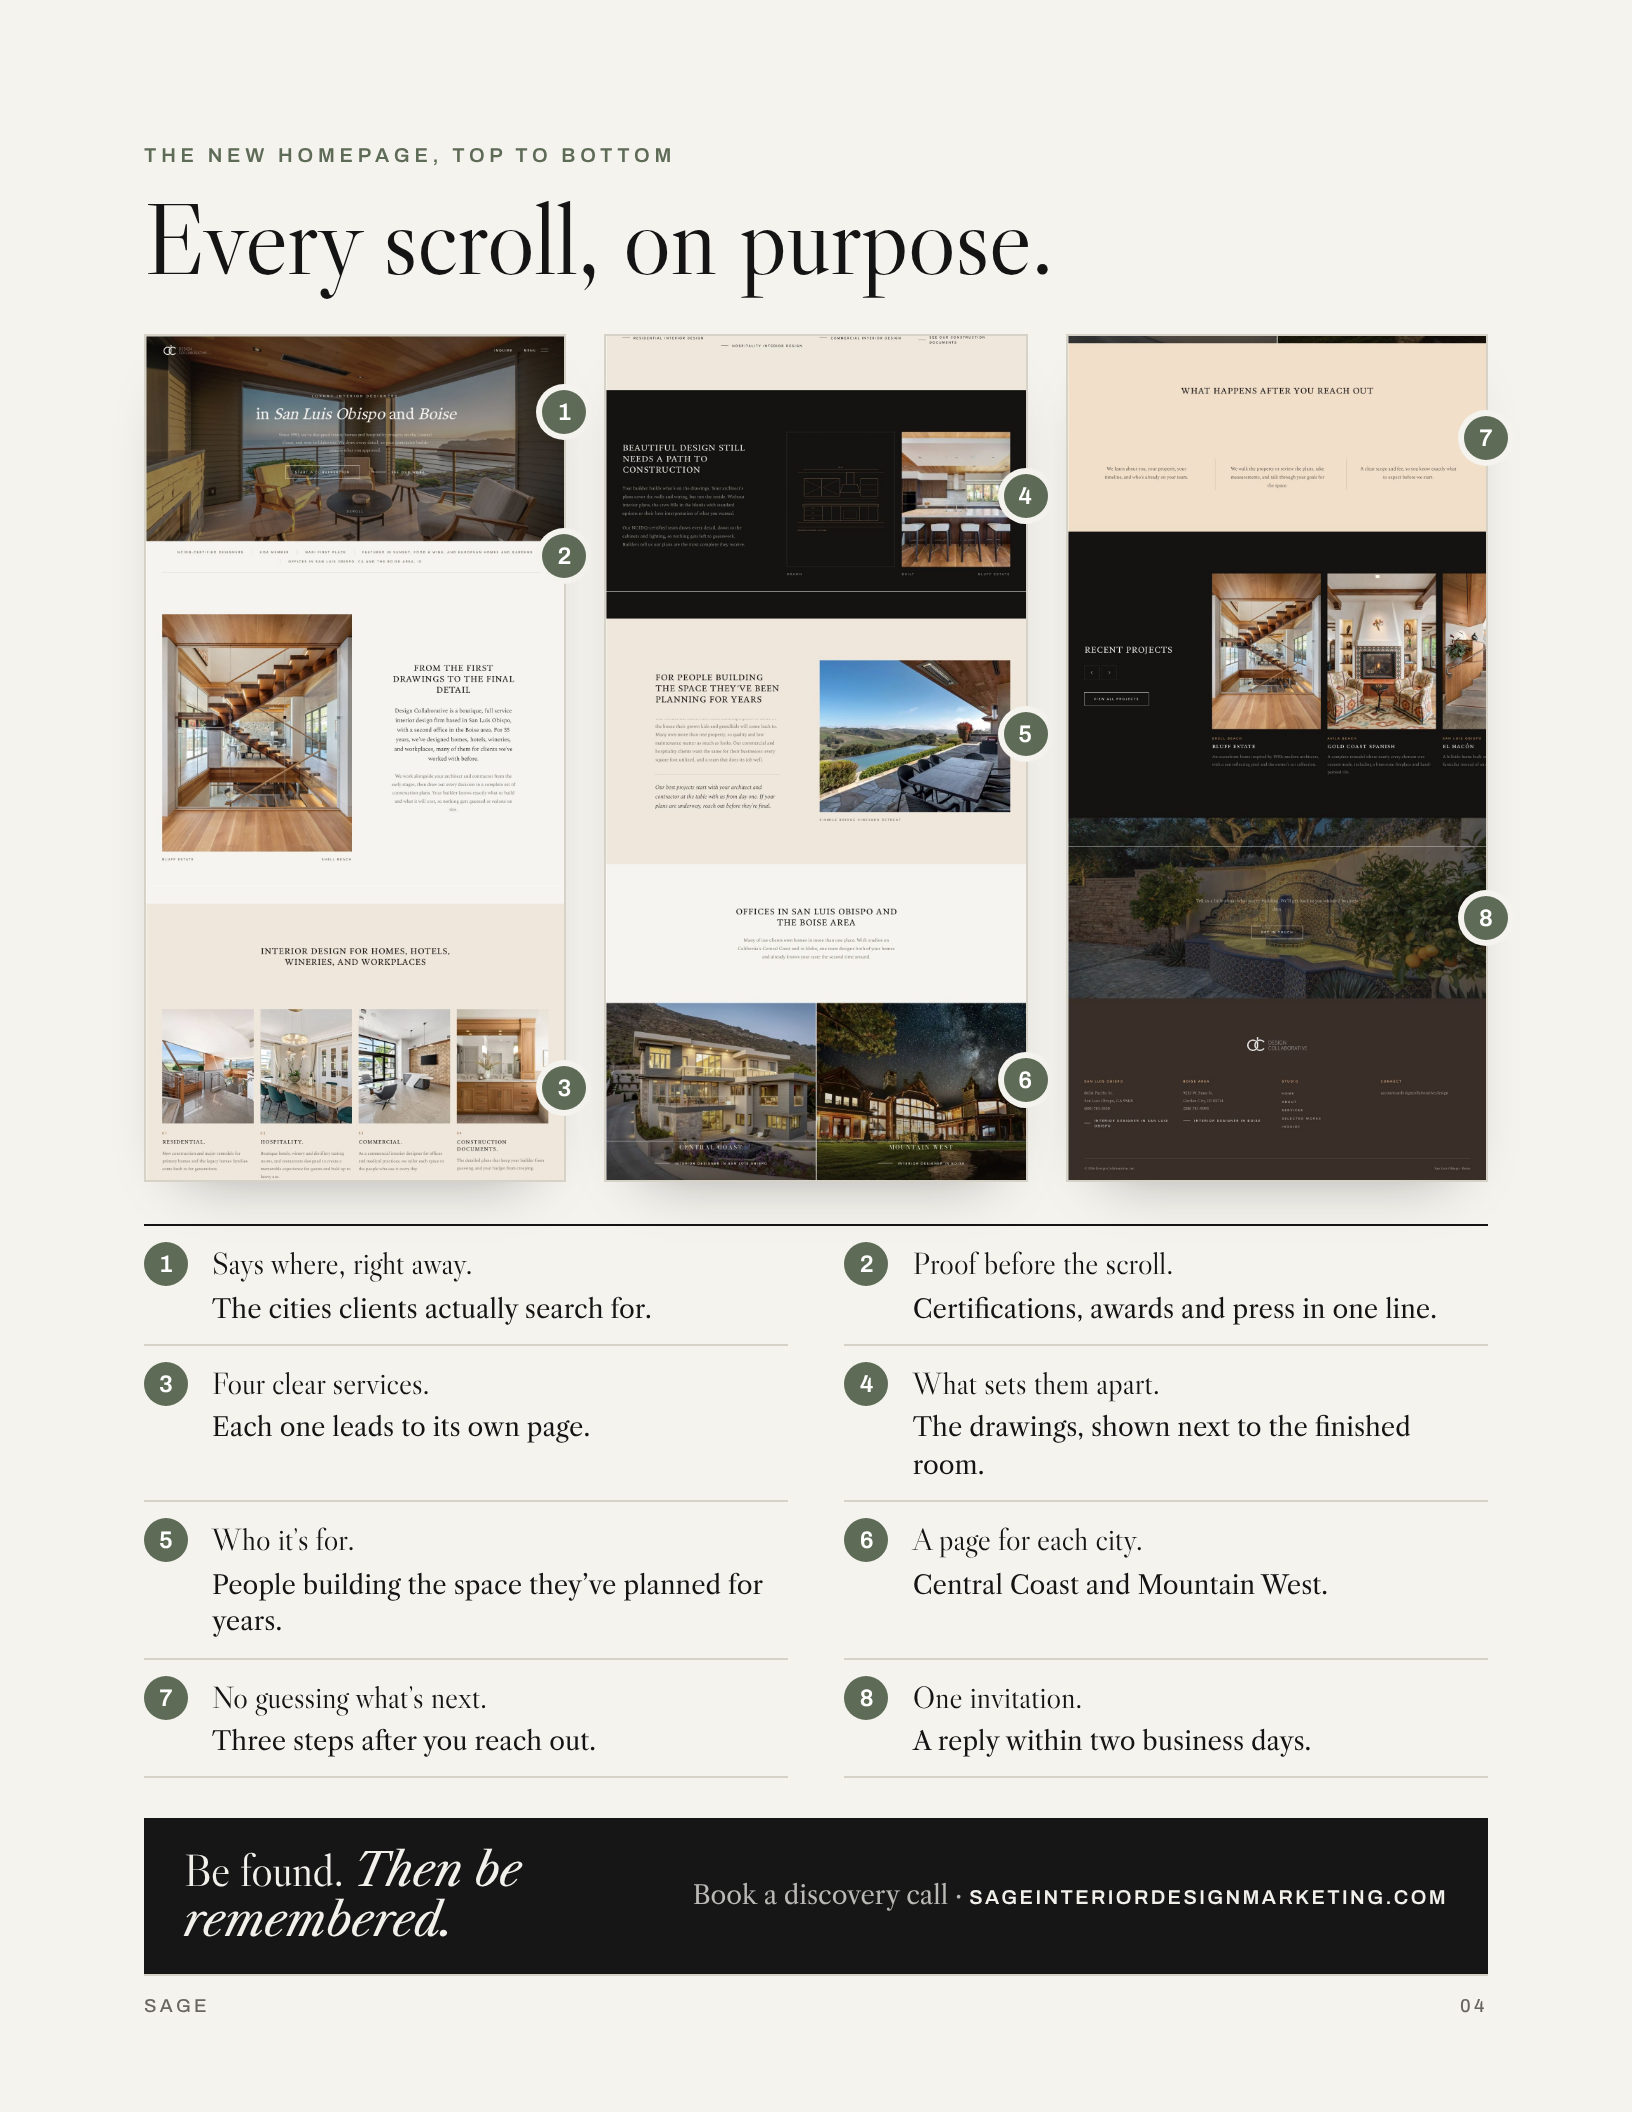
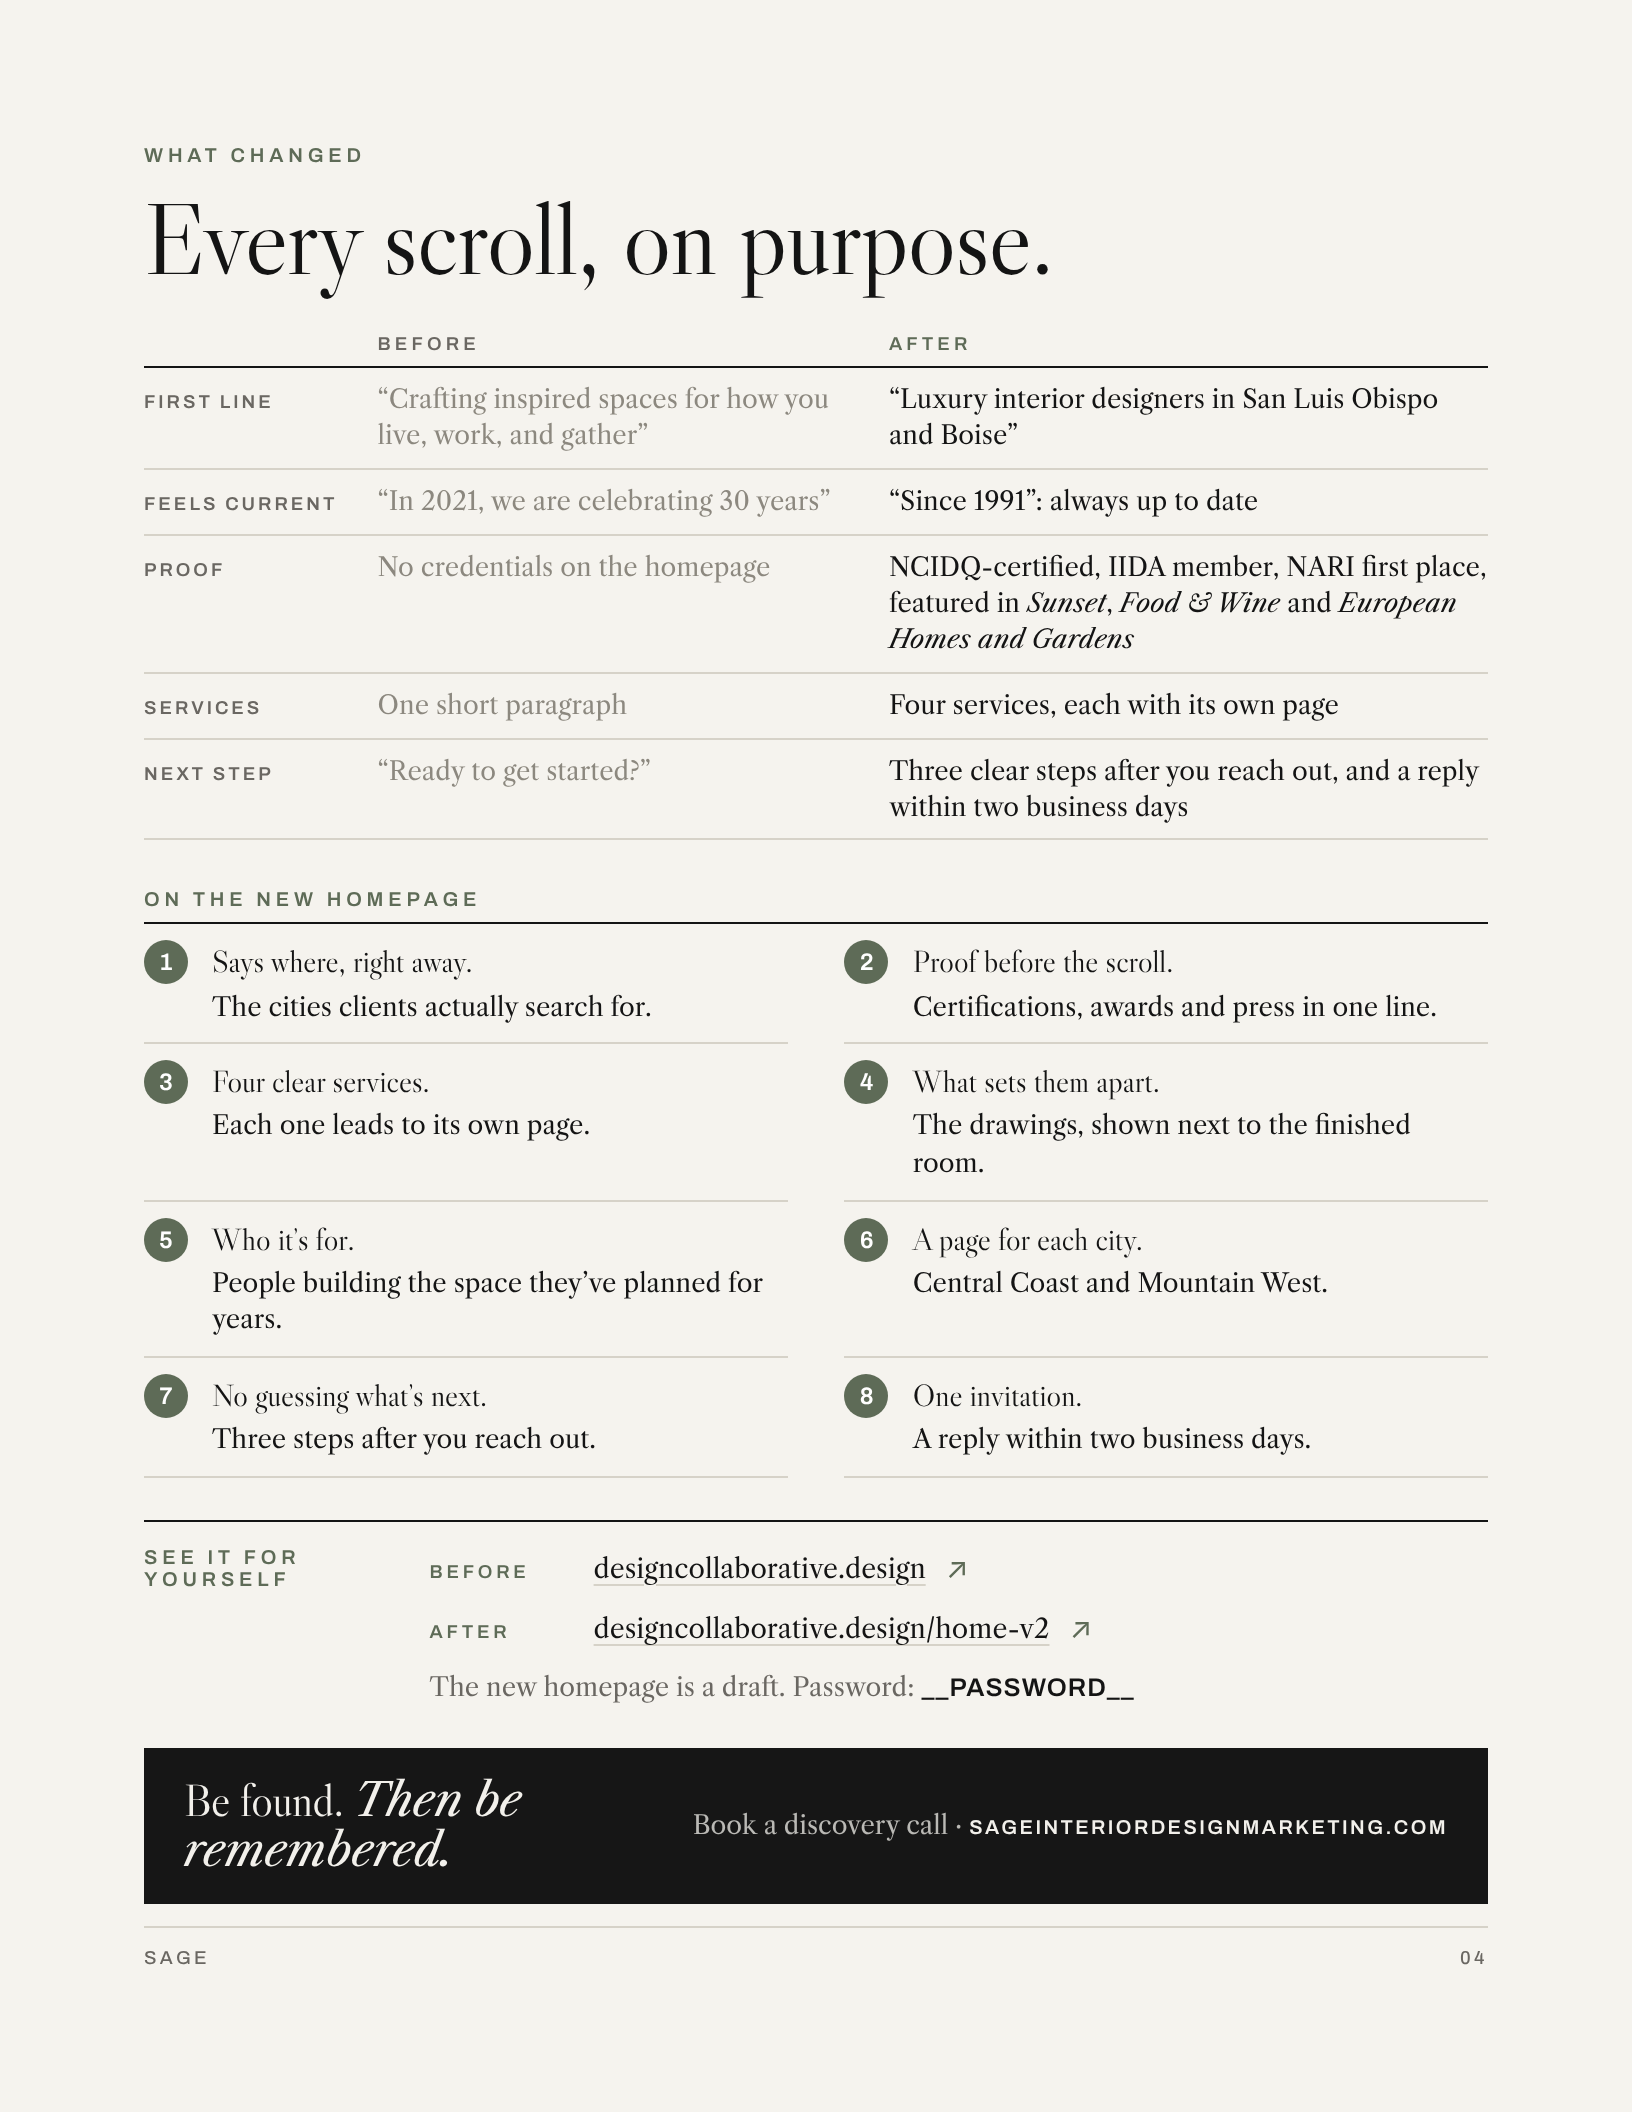
Show full homepages before and after on page 3
Claude-Session: https://claude.ai/code/session_01WwBvpqkJrLsAwoVKB4p9Tu

diff --git a/case-studies/sage-case-study-simple.html b/case-studies/sage-case-study-simple.html
@@ -126,6 +126,13 @@ em { font-style: italic; }
 .cta.wide h2 { font-size: 17pt; }
 .cta.wide p { font-size: 9.6pt; }
 .addr2 { font: 600 7.5pt var(--f-sans); letter-spacing: 0.12em; text-transform: uppercase; color: var(--on-night); }
+
+.full-ba { display: grid; grid-template-columns: 1fr 2fr; gap: 0.3in; align-items: start; }
+.ba-tag { font: 600 7.5pt var(--f-sans); letter-spacing: 0.22em; text-transform: uppercase; color: var(--grey); margin-bottom: 8px; }
+.ba-tag.after { color: var(--sage); }
+.halves { display: grid; grid-template-columns: 1fr 1fr; gap: 0.2in; }
+.full-ba .strip img { display: block; width: 100%; height: auto; }
+.ba-cap { margin-top: 0.22in; font-style: italic; font-size: 10.5pt; color: var(--grey); }
 .page > * { flex-shrink: 0; }
 </style>
 </head>
@@ -181,27 +188,40 @@ em { font-style: italic; }
   <div class="foot"><span>Sage</span><span>02</span></div>
 </section>
 
-<!-- ============ PAGE 3 · WEBSITE BEFORE / AFTER ============ -->
+<!-- ============ PAGE 3 · FULL HOMEPAGE BEFORE / AFTER ============ -->
 <section class="page">
   <p class="kicker">Website design by Sage</p>
   <div style="height:10px"></div>
   <h2 style="font-size:38pt;">Same studio. A new first impression.</h2>
   <div style="height:6px"></div>
   <p style="font-size:11pt; color:var(--grey);">Design Collaborative · Interior design since 1991 · San Luis Obispo, CA and the Boise area</p>
-  <div style="height:0.25in"></div>
+  <div style="height:0.22in"></div>
 
-  <div class="duo">
-    <figure>
-      <span class="tag">Before</span>
-      <div class="browser"><div class="bar"><i></i><i></i><i></i><span>Current site</span></div><img src="img/dcold-hero.jpg" alt="The current Design Collaborative homepage: a kitchen photo with a small logo and menu."></div>
-    </figure>
-    <figure>
-      <span class="tag after">After</span>
-      <div class="browser"><div class="bar"><i></i><i></i><i></i><span>New homepage by Sage</span></div><img src="img/dcnew-hero.jpg" alt="The new Design Collaborative homepage: Luxury interior designers in San Luis Obispo and Boise, over a photo of a terrace above the ocean, with a credentials bar below."></div>
-    </figure>
+  <div class="full-ba">
+    <div class="col-before">
+      <p class="ba-tag">Before · current homepage</p>
+      <div class="strip"><img src="img/dc-fullpage.jpg" alt="The full current Design Collaborative homepage, top to bottom."></div>
+    </div>
+    <div class="col-after">
+      <p class="ba-tag after">After · new homepage by Sage</p>
+      <div class="halves">
+        <div class="strip"><img src="img/dcnew-half1.jpg" alt="New homepage, first half."><span class="pin" style="top:6%">1</span><span class="pin" style="top:17%">2</span><span class="pin" style="top:60%">3</span><span class="pin" style="top:80%">4</span><span class="pin" style="top:96%">5</span></div>
+        <div class="strip"><img src="img/dcnew-half2.jpg" alt="New homepage, second half."><span class="pin" style="top:25%">6</span><span class="pin" style="top:42%">7</span><span class="pin" style="top:79%">8</span></div>
+      </div>
+    </div>
   </div>
+  <p class="ba-cap">Both homepages shown in full, at the same scale. The numbers match the notes on the next page.</p>
 
-  <div style="height:0.25in"></div>
+  <div class="foot"><span>Sage</span><span>03</span></div>
+</section>
+
+<!-- ============ PAGE 4 · WHAT CHANGED ============ -->
+<section class="page">
+  <p class="kicker">What changed</p>
+  <div style="height:10px"></div>
+  <h2 style="font-size:38pt;">Every scroll, on purpose.</h2>
+  <div style="height:0.22in"></div>
+
   <div class="cmp-head"><span></span><span>Before</span><span>After</span></div>
   <div class="cmp"><span class="k">First line</span><span class="b">“Crafting inspired spaces for how you live, work, and gather”</span><span class="a">“Luxury interior designers in San Luis Obispo and Boise”</span></div>
   <div class="cmp"><span class="k">Feels current</span><span class="b">“In 2021, we are celebrating 30 years”</span><span class="a">“Since 1991”: always up to date</span></div>
@@ -209,30 +229,9 @@ em { font-style: italic; }
   <div class="cmp"><span class="k">Services</span><span class="b">One short paragraph</span><span class="a">Four services, each with its own page</span></div>
   <div class="cmp"><span class="k">Next step</span><span class="b">“Ready to get started?”</span><span class="a">Three clear steps after you reach out, and a reply within two business days</span></div>
 
-  <div class="links">
-    <p class="kicker">See it for yourself</p>
-    <a href="https://designcollaborative.design/"><span class="tag2">Before</span><span class="t">designcollaborative.design</span><span class="arr">↗</span></a>
-    <a href="https://designcollaborative.design/home-v2"><span class="tag2">After</span><span class="t">designcollaborative.design/home-v2</span><span class="arr">↗</span></a>
-  </div>
-  <p class="pw">The new homepage is a draft. Password: <b>__PASSWORD__</b></p>
-
-  <div class="foot"><span>Sage</span><span>03</span></div>
-</section>
-
-<!-- ============ PAGE 4 · NEW HOMEPAGE ANNOTATED ============ -->
-<section class="page">
-  <p class="kicker">The new homepage, top to bottom</p>
-  <div style="height:10px"></div>
-  <h2 style="font-size:38pt;">Every scroll, on purpose.</h2>
-  <div style="height:0.22in"></div>
-
-  <div class="strips">
-    <div class="strip"><img src="img/dcnew-strip1.jpg" alt="New homepage, top third: hero, credentials, introduction and services."><span class="pin" style="top:9%">1</span><span class="pin" style="top:26%">2</span><span class="pin" style="top:89%">3</span></div>
-    <div class="strip"><img src="img/dcnew-strip2.jpg" alt="New homepage, middle third: drawn and built, who it’s for, and city pages."><span class="pin" style="top:19%">4</span><span class="pin" style="top:47%">5</span><span class="pin" style="top:88%">6</span></div>
-    <div class="strip"><img src="img/dcnew-strip3.jpg" alt="New homepage, bottom third: next steps, recent projects and get in touch."><span class="pin" style="top:12%">7</span><span class="pin" style="top:69%">8</span></div>
-  </div>
-
-  <div style="height:0.22in"></div>
+  <div style="height:0.25in"></div>
+  <p class="kicker">On the new homepage</p>
+  <div style="height:6px"></div>
   <ol class="callouts two-col">
     <li><b>Says where, right away.</b> The cities clients actually search for.</li>
     <li><b>Proof before the scroll.</b> Certifications, awards and press in one line.</li>
@@ -243,6 +242,13 @@ em { font-style: italic; }
     <li><b>No guessing what’s next.</b> Three steps after you reach out.</li>
     <li><b>One invitation.</b> A reply within two business days.</li>
   </ol>
+
+  <div class="links">
+    <p class="kicker">See it for yourself</p>
+    <a href="https://designcollaborative.design/"><span class="tag2">Before</span><span class="t">designcollaborative.design</span><span class="arr">↗</span></a>
+    <a href="https://designcollaborative.design/home-v2"><span class="tag2">After</span><span class="t">designcollaborative.design/home-v2</span><span class="arr">↗</span></a>
+  </div>
+  <p class="pw">The new homepage is a draft. Password: <b>__PASSWORD__</b></p>
 
   <div style="height:0.2in"></div>
   <div class="cta wide">
